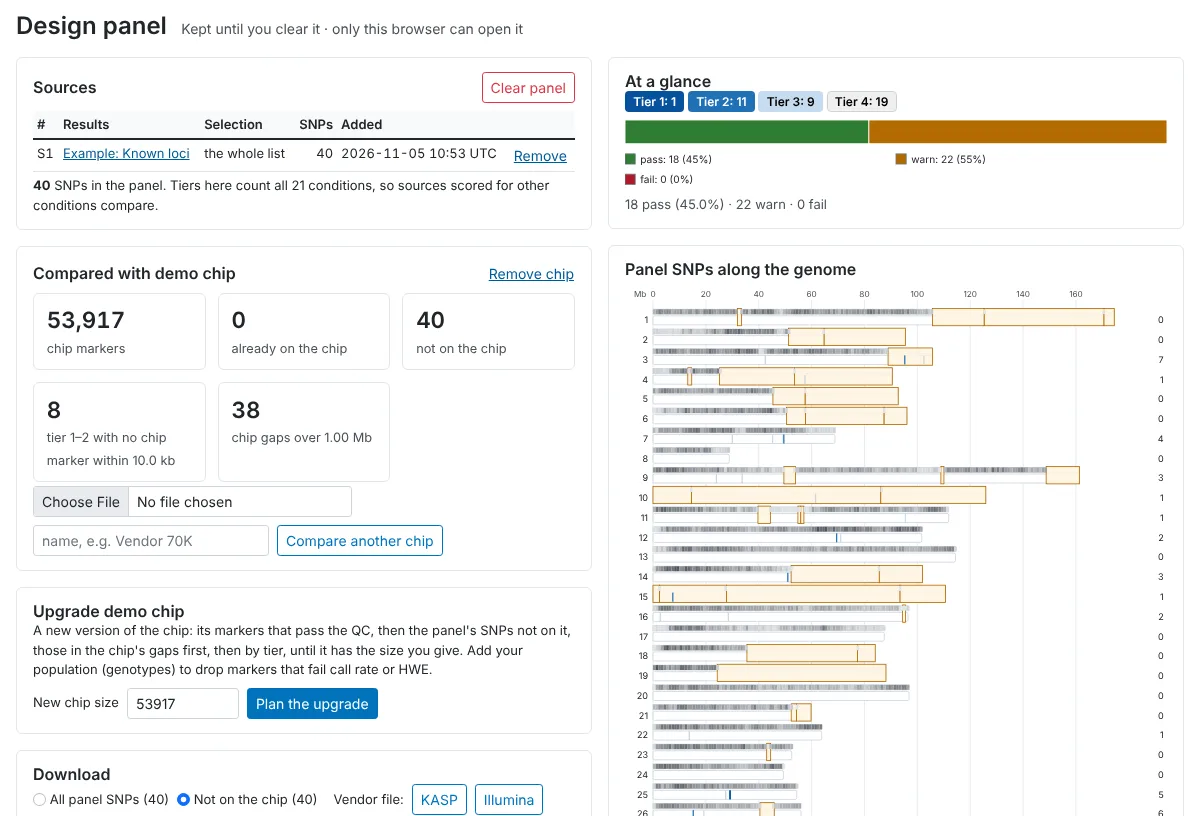
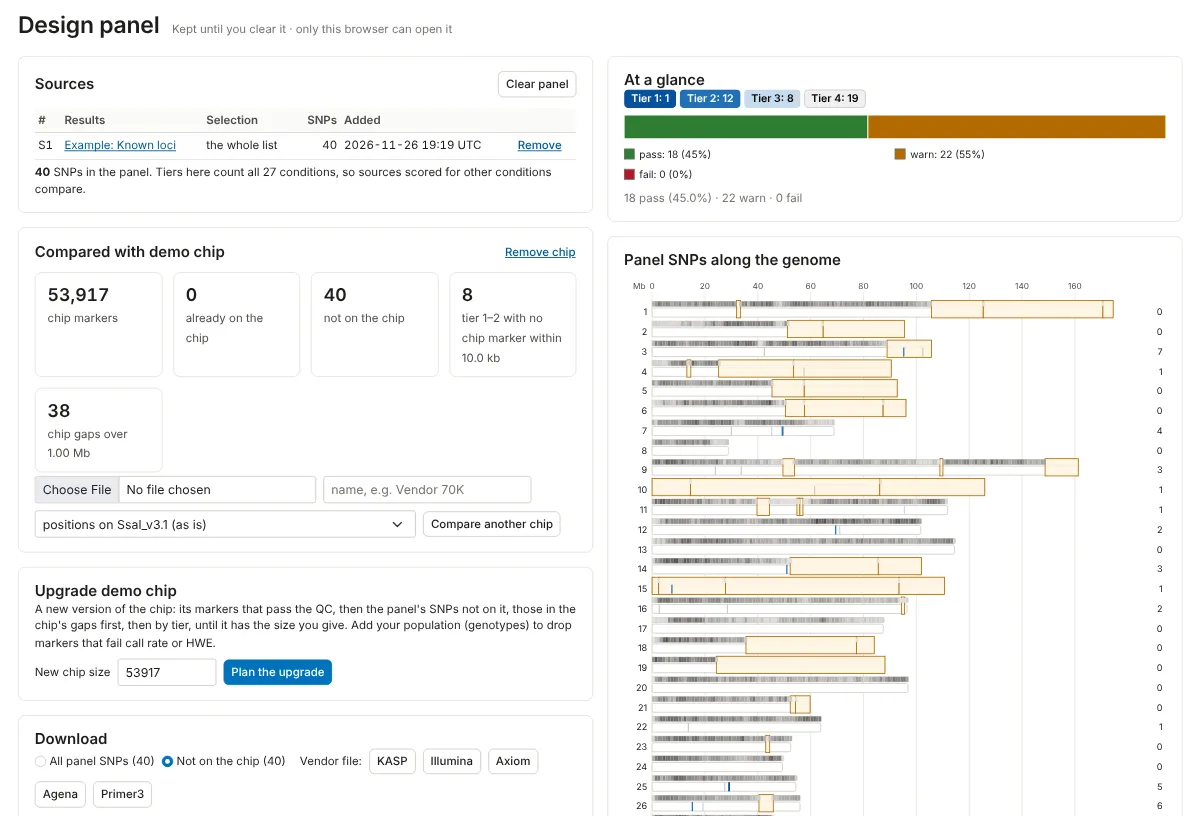
Tour: the screenshots retaken on the new design
All eight slides from the redesigned pages (tour_images). The card slide is shot at 1400 px, where the card sits
beside the Table; the locus slide points 'Zoom and move' at the ruler, and the panel slide is shot at 1440 px, so
their callouts fit the crop. The locus browser's groups sit a little closer together.

Claude-Session: https://claude.ai/code/session_013tLMKHEXR2o8r8idChPSxh

diff --git a/snpportal/snpportal/static/snpportal/tour/tour.css b/snpportal/snpportal/static/snpportal/tour/tour.css
@@ -1,39 +1,39 @@
 /* Written by `python manage.py tour_images` with the images: each slide's numbered callout boxes, in % of its image. */
-#tour-overview img { aspect-ratio: 1200 / 632; }
-#tour-overview-1 { left: 24.83%; top: 17.51%; width: 12.96%; height: 8.42%; }
-#tour-overview-2 { left: 2.10%; top: 31.47%; width: 46.14%; height: 5.15%; }
-#tour-overview-3 { left: 50.34%; top: 10.28%; width: 48.99%; height: 88.45%; }
-#tour-overview-4 { left: 0.67%; top: 1.27%; width: 98.66%; height: 7.73%; }
-#tour-score img { aspect-ratio: 1200 / 523; }
-#tour-score-1 { left: 0.67%; top: 19.15%; width: 56.99%; height: 16.73%; }
-#tour-score-2 { left: 0.67%; top: 37.42%; width: 56.99%; height: 7.58%; }
-#tour-score-3 { left: 0.67%; top: 46.54%; width: 56.99%; height: 9.33%; }
-#tour-score-4 { left: 0.67%; top: 60.18%; width: 56.99%; height: 38.28%; }
-#tour-table img { aspect-ratio: 1200 / 637; }
-#tour-table-1 { left: 79.60%; top: 21.25%; width: 20.40%; height: 77.49%; }
-#tour-table-2 { left: 0.75%; top: 16.46%; width: 3.30%; height: 35.55%; }
-#tour-table-3 { left: 15.71%; top: 22.31%; width: 11.39%; height: 4.10%; }
-#tour-table-4 { left: 78.89%; top: 10.16%; width: 11.87%; height: 6.14%; }
-#tour-card img { aspect-ratio: 1200 / 667; }
-#tour-card-1 { left: 48.43%; top: 8.50%; width: 45.63%; height: 9.76%; }
-#tour-card-2 { left: 80.56%; top: 24.47%; width: 15.57%; height: 5.06%; }
-#tour-card-3 { left: 54.07%; top: 63.94%; width: 27.55%; height: 25.90%; }
-#tour-card-4 { left: 42.68%; top: 91.32%; width: 56.01%; height: 7.23%; }
-#tour-locus img { aspect-ratio: 1200 / 657; }
-#tour-locus-1 { left: 26.17%; top: 1.72%; width: 4.84%; height: 5.60%; }
-#tour-locus-2 { left: 0.63%; top: 20.55%; width: 98.74%; height: 21.09%; }
-#tour-locus-3 { left: 86.49%; top: 73.96%; width: 8.63%; height: 4.30%; }
-#tour-locus-4 { left: 0.63%; top: 93.69%; width: 94.97%; height: 5.17%; }
+#tour-overview img { aspect-ratio: 1200 / 671; }
+#tour-overview-1 { left: 24.83%; top: 19.24%; width: 5.16%; height: 8.49%; }
+#tour-overview-2 { left: 2.28%; top: 38.02%; width: 45.78%; height: 4.82%; }
+#tour-overview-3 { left: 50.34%; top: 10.34%; width: 48.99%; height: 88.45%; }
+#tour-overview-4 { left: 0.68%; top: 1.21%; width: 98.65%; height: 7.32%; }
+#tour-score img { aspect-ratio: 1200 / 680; }
+#tour-score-1 { left: 57.72%; top: 12.71%; width: 42.28%; height: 22.68%; }
+#tour-score-2 { left: 0.67%; top: 85.07%; width: 56.04%; height: 13.74%; }
+#tour-score-3 { left: 0.67%; top: 12.71%; width: 56.04%; height: 7.19%; }
+#tour-score-4 { left: 0.67%; top: 21.67%; width: 56.04%; height: 59.84%; }
+#tour-table img { aspect-ratio: 1200 / 689; }
+#tour-table-1 { left: 65.08%; top: 28.23%; width: 27.01%; height: 69.85%; }
+#tour-table-2 { left: 0.76%; top: 22.97%; width: 4.04%; height: 37.28%; }
+#tour-table-3 { left: 16.66%; top: 31.13%; width: 10.76%; height: 3.80%; }
+#tour-table-4 { left: 74.60%; top: 10.01%; width: 15.20%; height: 5.48%; }
+#tour-card img { aspect-ratio: 1200 / 728; }
+#tour-card-1 { left: 59.42%; top: 8.37%; width: 34.28%; height: 6.73%; }
+#tour-card-2 { left: 87.26%; top: 24.89%; width: 10.02%; height: 3.42%; }
+#tour-card-3 { left: 63.96%; top: 53.24%; width: 22.66%; height: 26.21%; }
+#tour-card-4 { left: 55.75%; top: 93.19%; width: 43.64%; height: 5.81%; }
+#tour-locus img { aspect-ratio: 1200 / 791; }
+#tour-locus-1 { left: 0.65%; top: 4.27%; width: 98.69%; height: 5.21%; }
+#tour-locus-2 { left: 0.65%; top: 9.23%; width: 98.69%; height: 21.56%; }
+#tour-locus-3 { left: 89.40%; top: 77.81%; width: 9.94%; height: 3.90%; }
+#tour-locus-4 { left: 0.65%; top: 95.10%; width: 98.69%; height: 3.90%; }
 #tour-panel img { aspect-ratio: 1200 / 816; }
-#tour-panel-1 { left: 2.42%; top: 13.09%; width: 45.83%; height: 8.52%; }
-#tour-panel-2 { left: 2.42%; top: 35.38%; width: 45.83%; height: 24.15%; }
-#tour-panel-3 { left: 2.42%; top: 95.55%; width: 45.83%; height: 4.45%; }
-#tour-panel-4 { left: 50.33%; top: 6.47%; width: 48.67%; height: 22.08%; }
-#tour-gwas img { aspect-ratio: 1200 / 731; }
-#tour-gwas-1 { left: 71.23%; top: 36.28%; width: 2.04%; height: 3.35%; }
-#tour-gwas-2 { left: 2.04%; top: 82.59%; width: 24.28%; height: 16.37%; }
-#tour-gwas-3 { left: 41.79%; top: 82.59%; width: 31.72%; height: 16.37%; }
-#tour-more img { aspect-ratio: 1200 / 649; }
-#tour-more-1 { left: 34.57%; top: 0.00%; width: 9.43%; height: 7.45%; }
-#tour-more-2 { left: 43.27%; top: 0.00%; width: 11.56%; height: 7.45%; }
-#tour-more-3 { left: 44.94%; top: 6.10%; width: 15.33%; height: 41.03%; }
+#tour-panel-1 { left: 2.57%; top: 12.73%; width: 45.74%; height: 7.24%; }
+#tour-panel-2 { left: 2.57%; top: 32.91%; width: 45.74%; height: 25.40%; }
+#tour-panel-3 { left: 2.57%; top: 91.21%; width: 45.74%; height: 8.11%; }
+#tour-panel-4 { left: 50.29%; top: 6.40%; width: 48.53%; height: 21.18%; }
+#tour-gwas img { aspect-ratio: 1200 / 816; }
+#tour-gwas-1 { left: 78.37%; top: 38.45%; width: 2.06%; height: 3.02%; }
+#tour-gwas-2 { left: 0.71%; top: 86.27%; width: 25.28%; height: 13.73%; }
+#tour-gwas-3 { left: 41.83%; top: 86.27%; width: 32.45%; height: 13.73%; }
+#tour-more img { aspect-ratio: 1200 / 629; }
+#tour-more-1 { left: 34.70%; top: 0.00%; width: 10.27%; height: 9.71%; }
+#tour-more-2 { left: 44.24%; top: 0.00%; width: 12.24%; height: 9.71%; }
+#tour-more-3 { left: 81.30%; top: 1.13%; width: 17.25%; height: 6.76%; }

diff --git a/snpportal/snpportal/static/snpportal/portal.css b/snpportal/snpportal/static/snpportal/portal.css
@@ -723,8 +723,8 @@ a.sp-card:hover { border-color: var(--sp-line-2); background: var(--sp-grey-50);
 .sp-trk-svg { display: block; overflow: visible; }
 .sp-trk-svg.sp-ax { overflow: hidden; }  /* the tracks draw a margin either side (browser.drawn), shown when they are moved */
 .sp-trk-svg text { font-family: var(--sp-font); }
-.sp-grp { width: 1200px; margin-top: 10px; padding-top: 8px; border-top: 1px solid var(--sp-line); }
-.sp-grp-h { display: flex; align-items: baseline; gap: 12px; width: 1200px; margin-bottom: 4px; }
+.sp-grp { width: 1200px; margin-top: 6px; padding-top: 5px; border-top: 1px solid var(--sp-line); }
+.sp-grp-h { display: flex; align-items: baseline; gap: 12px; width: 1200px; margin-bottom: 2px; }
 .sp-grp-h h3 { margin: 0; font-size: 15px; font-weight: 600; }
 .sp-grp-h h3[title] { cursor: help; }
 .sp-grp-note { color: var(--sp-muted); font-size: 12px; }

diff --git a/snpportal/snpportal/explore.py b/snpportal/snpportal/explore.py
@@ -601,17 +601,17 @@ TOUR = [  # One slide each: a title (<= 6 words), text (<= 2 sentences, <= 40 wo
                   ("Open the full locus browser", "#cs-locus .sp-cs-act"),
                   ("Its peak: chromatin state per condition", "#cs-locus svg svg"),
                   ("As a marker: assay check, GC and MAF", "#cs-marker > summary")],
-     "shot": {"path": "results/{snps}/?tab=table&snp=2", "width": 1000, "crop": [".sp-card-bar", "#cs-marker > summary", "tr.sp-selected"]}},
+     "shot": {"path": "results/{snps}/?tab=table&snp=2", "width": 1400, "crop": [".sp-card-bar", "#cs-marker > summary", "tr.sp-selected"]}},
     {"slug": "locus", "title": "Explore a locus",
      "text": "The locus browser lines up genes, public SNPs, TF motif changes, regulatory elements, chromatin states and "
              "live RNA, ATAC and ChIP data from salmobase. From a card, Open locus browser shows it over the table.",
      "alt": "Locus browser at vgll3 on chromosome 25: genes and published SNPs, regulatory elements, chromatin states and "
             "the functional assays.",
-     "callouts": [("Zoom and move", ".sp-bctl .btn-group:nth-of-type(1)"),
+     "callouts": [("Zoom and move: drag the ruler or the tracks", ".sp-trk-ruler"),
                   ("Genes, published loci and variants", "#g-genes"),
                   ("Open a group: one track per condition", "#g-hmm .sp-tog"),
                   ("RNA, ATAC and ChIP from salmobase", "#g-assays .sp-grp-h")],
-     "shot": {"path": "locus/?r=25:28983861-29008860", "width": 1280, "crop": [".sp-bctl", "#g-assays .sp-grp-h"]}},
+     "shot": {"path": "locus/?r=25:28983861-29008860", "width": 1280, "crop": [".sp-trk-chr", "#g-assays .sp-grp-h"]}},
     {"slug": "panel", "title": "Build a genotyping panel",
      "text": "Add to Design panel on the Table brings its selection to the Design panel. Compare the panel with your chip, "
              "drop SNPs by hand and download KASP, Illumina or Axiom files.",
@@ -622,7 +622,7 @@ TOUR = [  # One slide each: a title (<= 6 words), text (<= 2 sentences, <= 40 wo
                   ("Vendor files", "section[aria-labelledby=dl-h] form"),
                   ("Ready to genotype?", "section[aria-labelledby=glance-h]")],
      "shot": {"before": [("results/{snps}/?tab=table", "button[form=add-panel]"), ("panel/", "button[name=demo]")],
-              "path": "panel/", "width": 1200, "crop": [".sp-page-header", ".sp-eq"]}},
+              "path": "panel/", "width": 1440, "crop": [".sp-page-header", ".sp-eq"]}},
     {"slug": "gwas", "title": "Analyse GWAS summary statistics",
      "text": "Upload GWAS results for a Manhattan plot, the loci and fine-mapping that weights SNPs by their functional "
              "evidence (one causal variant per locus, no LD). The example is synthetic.",
